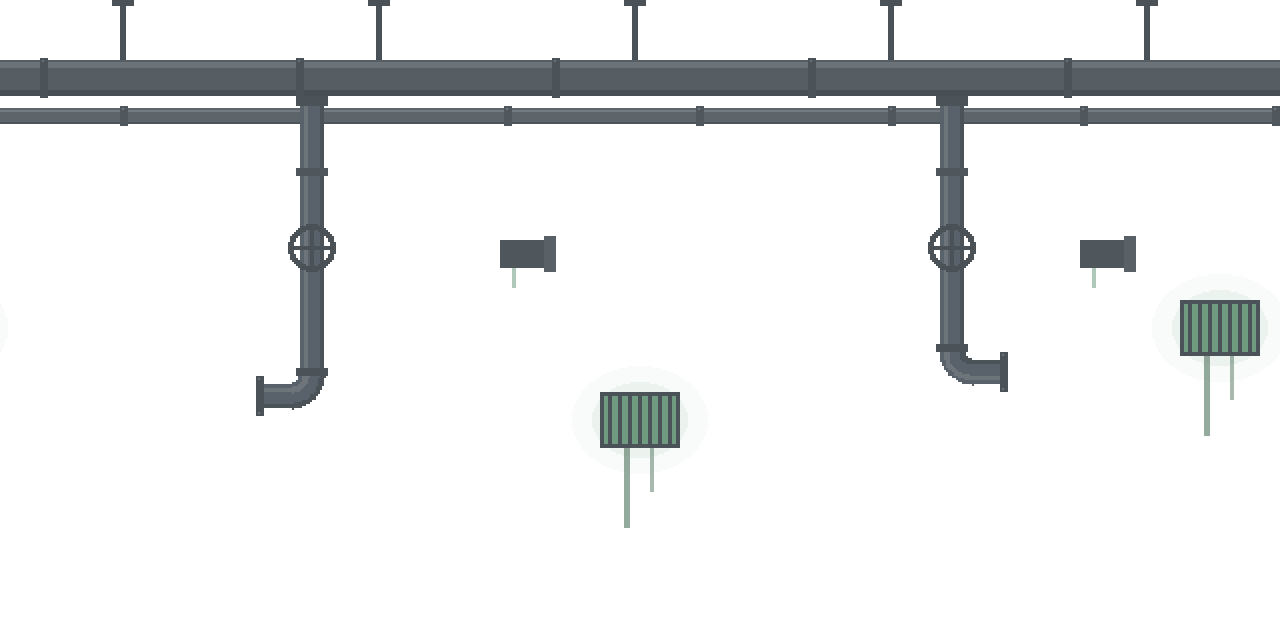
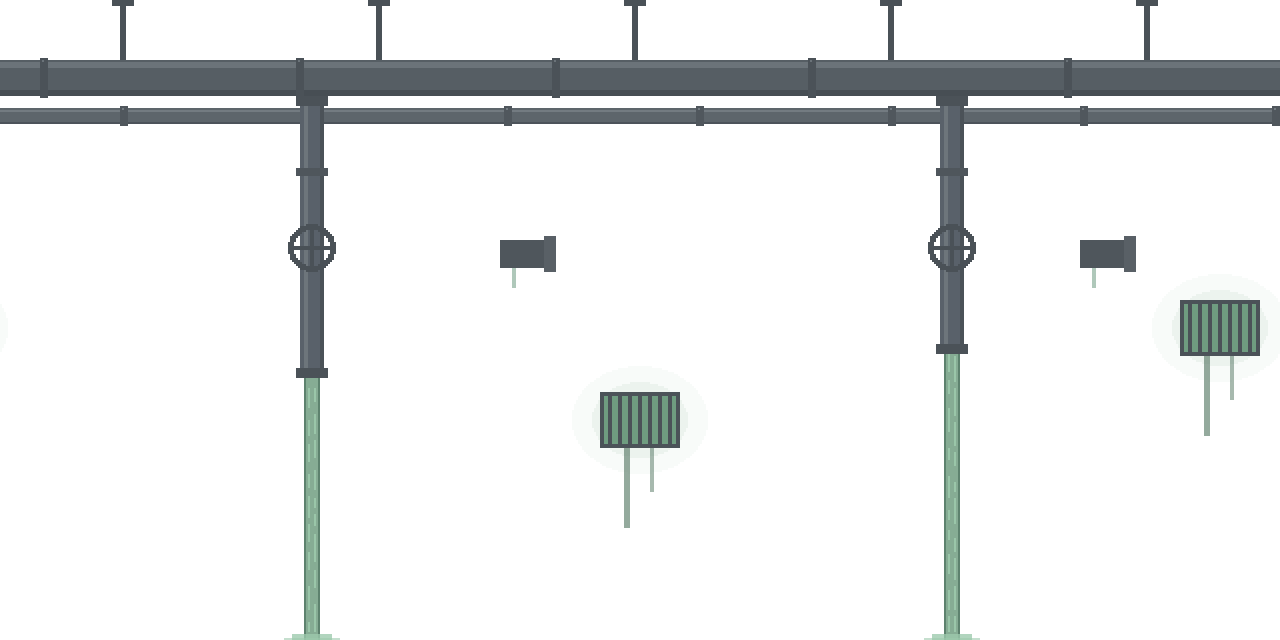
fix: Canos do fundo da Fase 1 despejam água tóxica no canal
Troca o joelho que entrava na parede por uma boca aberta com jato verde caindo até o canal de água, conforme pedido na revisão.

Changed region(s): [[0.7188, 0.5312, 0.8125, 1.0], [0.1875, 0.5938, 0.2812, 1.0]]

diff --git a/flesh-to-chrome/scripts/backdrops/gerar_fundos.py b/flesh-to-chrome/scripts/backdrops/gerar_fundos.py
@@ -176,39 +176,26 @@ def cylinder(layer: Layer, x, y, w, h, base: str, light: str, dark: str):
     layer.rect(x + w - max(1, w // 6), y, max(1, w // 6), h, rgb(dark))
 
 
-def elbow_to_wall(layer: Layer, x, w, y, side: int, base: str, light: str, dark: str, flange: str, length=14):
-    """Joelho de 90° no pé de um cano vertical (x..x+w, terminando em y) que
-    vira para o lado (`side` -1 = esquerda, 1 = direita) e entra na parede
-    por um flange parafusado."""
-    ri, ro = 4, 4 + w  # raios interno/externo da curva
-    cx = x + ro if side > 0 else x + w - ro  # centro da curva
-    a0, a1 = (math.pi, math.pi / 2) if side > 0 else (0, math.pi / 2)
-
-    def band(r_in, r_out, color):
-        n = 12
-        outer = [(cx + r_out * math.cos(a0 + (a1 - a0) * i / n), y + r_out * math.sin(a0 + (a1 - a0) * i / n)) for i in range(n + 1)]
-        inner = [(cx + r_in * math.cos(a0 + (a1 - a0) * i / n), y + r_in * math.sin(a0 + (a1 - a0) * i / n)) for i in range(n, -1, -1)]
-        layer.poly(outer + inner, rgb(color))
-
-    # mesmas faixas de luz/sombra do cilindro, seguindo a curva
-    edge, strip = max(1, w // 5), max(1, w // 6)
-    band(ri, ro, base)
-    light_r, dark_r = (ro - edge - strip, ro - edge), (ri, ri + strip)
-    if side < 0:  # espelhado: a faixa clara fica do lado de dentro
-        light_r, dark_r = (ri + edge, ri + edge + strip), (ro - strip, ro)
-    band(*light_r, light)
-    band(*dark_r, dark)
-    # trecho horizontal até a parede, com as faixas na mesma altura da curva
-    x0 = cx if side > 0 else cx - length
-    layer.rect(x0, y + ri, length, w, rgb(base))
-    layer.rect(x0, y + light_r[0], length, strip, rgb(light))
-    layer.rect(x0, y + dark_r[0], length, dark_r[1] - dark_r[0], rgb(dark))
-    # colar na emenda com o cano vertical e flange preso na parede
-    layer.rect(x - 2, y - 4, w + 4, 4, rgb(flange))
-    fx = cx + length if side > 0 else cx - length - 4
-    layer.rect(fx, y + ri - 4, 4, w + 8, rgb(flange))
-    layer.px(fx + 1, y + ri - 3, rgb(light))
-    layer.px(fx + 1, y + ro + 2, rgb(light))
+def pour(layer: Layer, x, w, y, bottom, flange: str, seed: int):
+    """Boca aberta no pé de um cano vertical (x..x+w, terminando em y)
+    despejando água tóxica até `bottom`."""
+    rnd = random.Random(seed)
+    sx, sw = x + 2, w - 4
+    layer.rect(sx, y, sw, bottom - y, rgb("#6f9c80", 215))
+    layer.rect(sx, y, 1, bottom - y, rgb("#557a66", 215))
+    layer.rect(sx + sw - 1, y, 1, bottom - y, rgb("#557a66", 215))
+    # fios claros quebrados dão a leitura de água caindo
+    for fx in (sx + 2, sx + sw - 3):
+        yy = y + rnd.randint(0, 6)
+        while yy < bottom - 4:
+            seg = rnd.randint(5, 14)
+            layer.rect(fx, yy, 1, min(seg, bottom - 4 - yy), rgb("#9cc9ac", 230))
+            yy += seg + rnd.randint(3, 8)
+    # espuma onde o jato bate no canal
+    layer.rect(x - 4, bottom - 3, w + 8, 3, rgb("#9cc9ac", 200))
+    layer.rect(x - 8, bottom - 1, w + 16, 1, rgb("#9cc9ac", 150))
+    # colar da boca por cima do jato
+    layer.rect(x - 2, y - 4, w + 4, 5, rgb(flange))
 
 
 def hpipe(layer: Layer, y, thick, base: str, light: str, dark: str, flange: str, spacing=96, offset=0):
@@ -277,18 +264,19 @@ def fase1():
     for bx in range(0, LW, 128):
         mid.rect(bx + 60, 0, 3, 30, rgb("#4a5157"))
         mid.rect(bx + 56, 0, 11, 3, rgb("#4a5157"))
-    # Canos descem, dobram num joelho e entram na parede. Terminam acima de
-    # y lógico ~210 (tela ~420): abaixo disso ficam as passarelas e o cano
-    # atravessaria o chão.
-    for vx, bend_y, side in ((150, 188, -1), (470, 176, 1)):
-        cylinder(mid, vx, 48, 12, bend_y - 48, "#59616a", "#6d757b", "#4b5258")
+    # Canos terminam em boca aberta despejando água tóxica no canal (a base
+    # desta camada encosta no topo de esgoto-agua.png). O cano para acima de
+    # y lógico ~210 (tela ~420): abaixo disso ficam as passarelas e ele
+    # atravessaria o chão; só o jato passa por trás delas.
+    for vx, end_y in ((150, 188), (470, 176)):
+        cylinder(mid, vx, 48, 12, end_y - 48, "#59616a", "#6d757b", "#4b5258")
         mid.rect(vx - 2, 48, 16, 5, rgb("#4b5258"))
         mid.rect(vx - 2, 84, 16, 4, rgb("#4f565c"))
         # registro (volante)
         mid.ring(vx - 6, 112, 24, 24, rgb("#4a5157"), 3)
         mid.rect(vx + 5, 112, 2, 24, rgb("#4a5157"))
         mid.rect(vx - 6, 123, 24, 2, rgb("#4a5157"))
-        elbow_to_wall(mid, vx, 12, bend_y, side, "#59616a", "#6d757b", "#4b5258", "#4b5258")
+        pour(mid, vx, 12, end_y, 320, "#4b5258", vx)
     # grades com luz esverdeada e escorrido
     for gx, gy in ((300, 196), (590, 150)):
         glow(mid, gx + 20, gy + 14, 34, "#7fb08f", 40)
